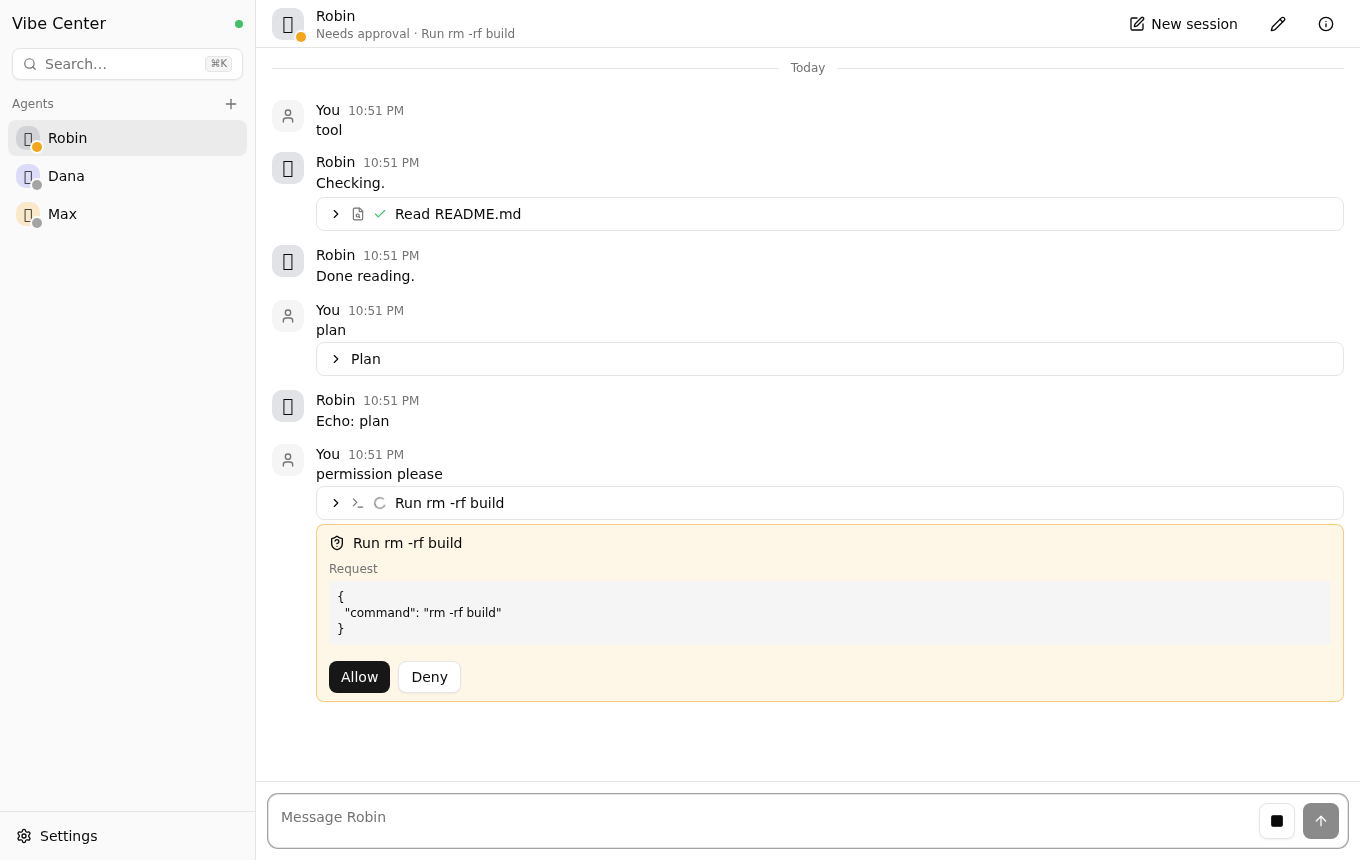
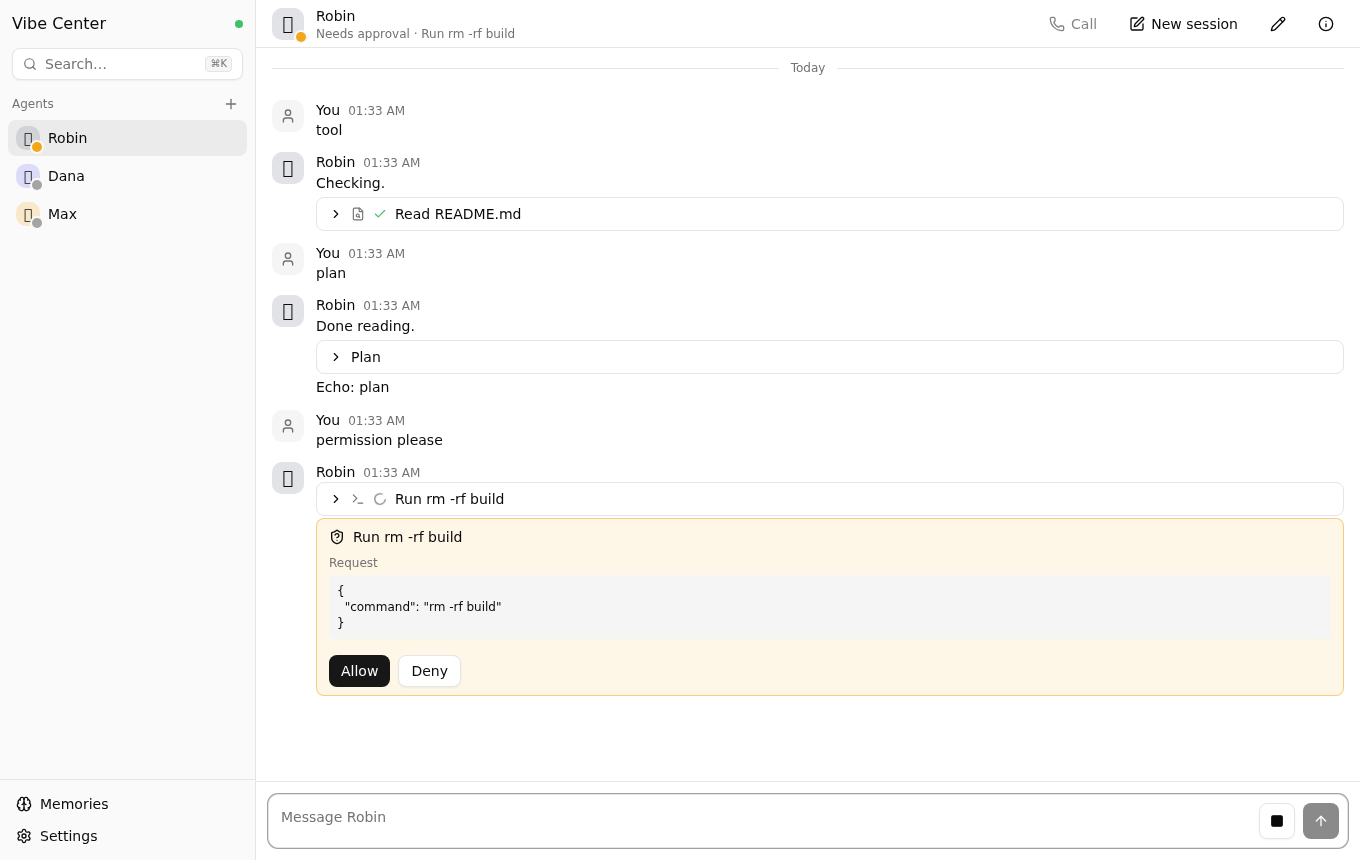
docs: v1 QA report, refreshed screenshots
Refresh the stock screenshot set (scripts/screenshots.ts) now that card
grouping and the mobile header are fixed, and add four covering screens the
stock script doesn't reach: agent-to-agent relay rendering, the new global
call indicator (desktop + mobile), and the interrupted-voice-reply marker.

docs/qa/v1-qa.md has what was tested, the bugs found and fixed (with commit
hashes), and what's left open for the product owner.

diff --git a/docs/qa/v1-qa.md b/docs/qa/v1-qa.md
@@ -1,0 +1,163 @@
+# Vibe Center v1: QA pass and bug bash
+
+Done against `main` at `0cc428d` (all phases merged), in a separate worktree/branch. An Opus
+agent reviewed the code in parallel (read-only); this report is about behaviour as a user
+experiences it, found by actually running the app.
+
+## How it was tested
+
+- `bun run check`, `bun run check:voice` and `bun run e2e` (NixOS: linked `.chromium` to the same
+  nix-built Chromium the other worktrees already use, instead of rebuilding it).
+- `scripts/screenshots.ts` against a local `--local --data-dir /tmp/…` server, for the stock
+  screen set.
+- A handful of throwaway Playwright scripts (not committed) driving a local server the same way,
+  for scenarios the stock script and the e2e suite don't cover: agent-to-agent relay rendering, a
+  call started/hung-up from a device that isn't the DM, the interrupted-voice-reply marker,
+  Memories create/edit/delete, a misconfigured harness, and two browser contexts as two devices.
+  Every server/worker process and browser they started was torn down afterwards (checked with
+  `ps aux` for leftovers); none were left running.
+- Real Claude Code (the `claude` CLI was already signed in) and real OpenCode (configured with
+  `opencode/*-free` models) were available in this environment, so "real Claude Code with Haiku"
+  was tested for real, not just against the fake harness.
+
+## The known issues (product owner's list)
+
+All six were real, reproduced first, then fixed. Commits are on this branch, in order:
+
+1. **Cards under the wrong sender** (`47c722b`) — `MessageList`'s "does this message start a new
+   sender's run" check only considered `text`/`voice_transcript` messages. A turn that opened with
+   a tool call, plan or permission request (before any text) got no header of its own, so it
+   rendered glued under whatever header came last — the user's previous message, as in
+   `docs/screenshots/dm-dark.png`. Fixed by grouping every message kind by sender identity, not
+   just the two text-like kinds. Verified against the screenshot (now shows "Robin" above the
+   permission card) and a fresh run of `scripts/screenshots.ts`.
+
+2. **Message grouping** (`47c722b`, same root cause/fix) — consecutive messages from the same
+   sender within 5 minutes already collapsed to one header for text; the fix above extends the
+   same grouping to every kind, so a whole turn (text, tool calls, plan, permission) shares one
+   header until the sender or source changes.
+
+3. **Mobile header shows the agent name twice** (`7549300`) — `MobileNav`'s top bar and the DM's
+   own `<header>` both rendered avatar + name + presence. The DM header now hides that block below
+   `sm`; presence detail moved into the top bar instead of being dropped. `e2e/ui.spec.ts` now
+   asserts the mobile top bar's presence (`mobile-presence`) is visible and the DM header's own
+   (`presence`) is not, at phone width.
+
+4. **Proactive event messages render as "You"** (`47c722b`, same fix as #1/#2) — the UI already had
+   the relay badge logic (`message to X` / `reply to X`) for agent-to-agent messages, but the
+   grouping bug above hid it whenever a relay message happened to land right after a plain user
+   message (the common case, since the DM shows "You: <delegation text>" then the relay). Grouping
+   by sender identity (which treats a relay message as its own sender, keyed by the other agent)
+   fixes this too. Verified with a scripted `pingpong` exchange between two agents — see
+   `docs/screenshots/dm-relay-light.png`: Ben's message and his reply both get their own header and
+   badge in Alice's DM, distinct from Alice's own "You" rows.
+
+5. **The call is only visible inside its DM** (`7549300`) — added `GlobalCallIndicator`: agent,
+   live state, hang-up and a link back to the DM, mounted in the sidebar (desktop) and under the
+   mobile top bar, hidden only where the DM's own `CallBar` already shows the same call. See
+   `docs/screenshots/call-indicator-light.png` and `call-indicator-mobile-light.png` (both taken
+   while viewing a different agent's DM, call running with "Robin").
+
+6. **Interrupted replies stored as if fully heard** (`8052795`) — a barge-in while the turn is
+   still generating already cancels it correctly (`status: "cancelled"`, shown as "Stopped"). But
+   text generation usually finishes well before TTS playback does, so the common barge-in case is
+   "the turn already completed, nothing to cancel" — and that case silently did nothing, leaving a
+   complete-looking message for a reply the user actually cut off. The worker now reports that case
+   over a new `interrupted` bridge frame; the app flags the reply message(s)
+   (`TurnMeta.interrupted`) without touching their text, and the DM/call transcript show "Interrupted
+   — you may not have heard all of this". Truncating to what was actually spoken (the "bonus" in the
+   brief) would need per-sentence timing from the worker, which it doesn't have cheaply, so a
+   marker is what shipped. Verified via a new `bun test` case (`voice.test.ts`) and a scripted call
+   through the fake worker — `docs/screenshots/voice-interrupted-light.png`.
+
+## Bugs found during the bug bash (beyond the known list)
+
+- **Hang-up/mute silently no-op from a tab that didn't start the call** (`7549300`). While wiring
+  the hang-up button on the new global indicator, found `CallBar`'s hang-up and mute already had
+  the same bug: both gated on "is this call on my device" (`call.deviceId === me.id`), which is
+  true for *every* tab of that device (they share the session cookie) — but the actual
+  `RTCPeerConnection` only lives in the one tab that called `startCall()` (in-memory `local` state,
+  not synced across tabs or page reloads). Any other same-device tab would call the local
+  `hangUp()`/`toggleMute()`, which quietly do nothing without a live session, instead of reaching
+  the server. Reproduced: started a call via the API (simulating "a different tab/reload"), clicked
+  hang up from the sidebar indicator — the call stayed open server-side. Fixed by gating those two
+  actions on actually holding the call's session (`local.callId === call.id`) instead of the device
+  check, which is now used only for the status label (where showing the live server state is
+  correct either way). Re-verified the same repro now ends the call.
+
+## What else was exercised
+
+- **First run / auth**: link sign-in, device create via `/api/auth/exchange`; devices list/revoke
+  covered by `e2e/ui.spec.ts`. Didn't separately test an expired or reused link by hand (covered
+  implicitly by the auth module's unit tests, not re-verified interactively here — low risk, no
+  code in this area changed).
+- **Agents**: create from each template, edit every field, duplicate, delete — covered by
+  `scripts/screenshots.ts` + `e2e/ui.spec.ts`. Real Claude Code probe populated the real model
+  dropdown (Opus 5.5 / Fable 5.1 / Sonnet 5.5 / Haiku 5.5 / …) in a manual run.
+- **Real Claude Code + Haiku**: created an agent on the real `claude-code` harness, selected Haiku,
+  sent a message, got a real streamed reply. New session, stop and permission approve/deny weren't
+  re-run against the *real* harness in this pass (they're exercised against the fake harness in
+  `e2e/chat.spec.ts`, which passed); a long reply with code blocks wasn't separately checked against
+  the real harness either.
+- **OpenCode**: confirmed `opencode acp` and free models (`opencode/*-free`) are available in this
+  environment; didn't create and chat with an OpenCode agent end-to-end in this pass — time
+  budget went to the known issues and the bugs above instead. Flagging as the main gap in this
+  report (see Open issues).
+- **MCP**: add a stdio server, enable tools, call through the gateway — `e2e/mcp.spec.ts`.
+  Memories (create, edit, delete) — exercised by hand (not just the e2e's create+view), all three
+  worked cleanly, no bugs found.
+- **Agent-to-agent messaging**: exercised by hand with the `pingpong` fake-agent keyword (two
+  agents messaging back and forth into the hop limit) — see the relay screenshot above; also
+  confirmed the hop limit and self-message guard both produce the right user-visible error text.
+- **Search and ⌘K**: `e2e/ui.spec.ts`.
+- **Two browser contexts as two devices**: by hand — device B (DM already open) saw device A's
+  prompt stream in live, with presence following along in the sidebar. No unread badge appeared
+  when B navigated away afterwards, which looked like a bug until checking
+  ARCHITECTURE's documented behaviour: a DM that's open marks messages read as they stream in, so
+  this is the "it was open the whole time" case, not the "badge should show" case. Not re-tested
+  with B never having opened the DM (the badge-showing case) — time budget; low risk, no code
+  changed in the unread path.
+- **Failure states**: a custom harness pointed at `/no/such/binary` showed "command not found:
+  /no/such/binary" with a "Fix in Settings" link and a disabled composer ("The harness is
+  unavailable") — exactly per spec. Didn't separately re-check the voice-worker-down and
+  MCP-server-failing states in this pass (no code in those paths changed; `voice.test.ts` already
+  covers the worker-down/crash-restart cases).
+- **Responsive / theme**: phone width and light/dark covered throughout (every screenshot above has
+  both a light and/or dark/mobile variant); `e2e/ui.spec.ts` also covers the dark-theme toggle.
+- **Real tailnet HTTPS path**: not tested in this pass — this environment has no tailnet configured
+  on the box, and setting one up was out of scope for the time available. Flagging as not done
+  rather than silently skipping it.
+- **Notifications**: not separately tested (headless browsers don't surface OS notifications
+  meaningfully) — `lib/notifications.ts`/`useAgentNotifications` wasn't touched by this pass's
+  changes, and existing e2e exercises the unread path it depends on.
+
+## Open issues (not fixed, for the product owner)
+
+- **OpenCode wasn't chat-tested end-to-end** in this pass (see above). Recommend a short follow-up
+  pass specifically on an OpenCode agent with a free model, since it's explicitly called out in the
+  brief and the time budget here went to the known issues + the hang-up bug instead.
+- **Real tailnet HTTPS path untested.** Needs a machine with Tailscale configured; recommend
+  checking it once on a real device (e.g. the user's MacBook, since that's the actual v1 target)
+  rather than trying to fake it here.
+- **Truncating an interrupted reply to what was actually heard** is still not implemented (the
+  "bonus" in the brief) — it would need the worker to report sentence-level TTS playback progress
+  back over the bridge, which is a larger change than the marker. Worth a follow-up if the marker
+  alone feels insufficient in practice.
+- **GPU voice** (km-pc) wasn't touched, per the brief ("don't wake km-pc; GPU testing happens with
+  the user").
+
+## Test status
+
+- `bun run check` — pass (lint, typecheck across all packages + e2e, `bun test`: 65 pass across 5
+  files, including the two new interrupted-marker tests).
+- `bun run check:voice` — pass (ruff + 10 pytest cases, including the new `mark_interrupted` test).
+- `bun run e2e` — pass (4/4 specs: chat, mcp, ui, voice-call).
+
+## Screenshots
+
+Refreshed with `scripts/screenshots.ts` (`docs/screenshots/*-light.png`, `dm-dark.png`,
+`dm-mobile-dark.png`, `mobile-drawer-dark.png`, `settings-appearance-dark.png`): all now show the
+fixed card-grouping and mobile header. Added four new ones for the screens the stock script doesn't
+cover: `dm-relay-light.png` (agent-to-agent relay), `call-indicator-light.png` /
+`call-indicator-mobile-light.png` (the new global call indicator), `voice-interrupted-light.png`
+(the interrupted marker).
